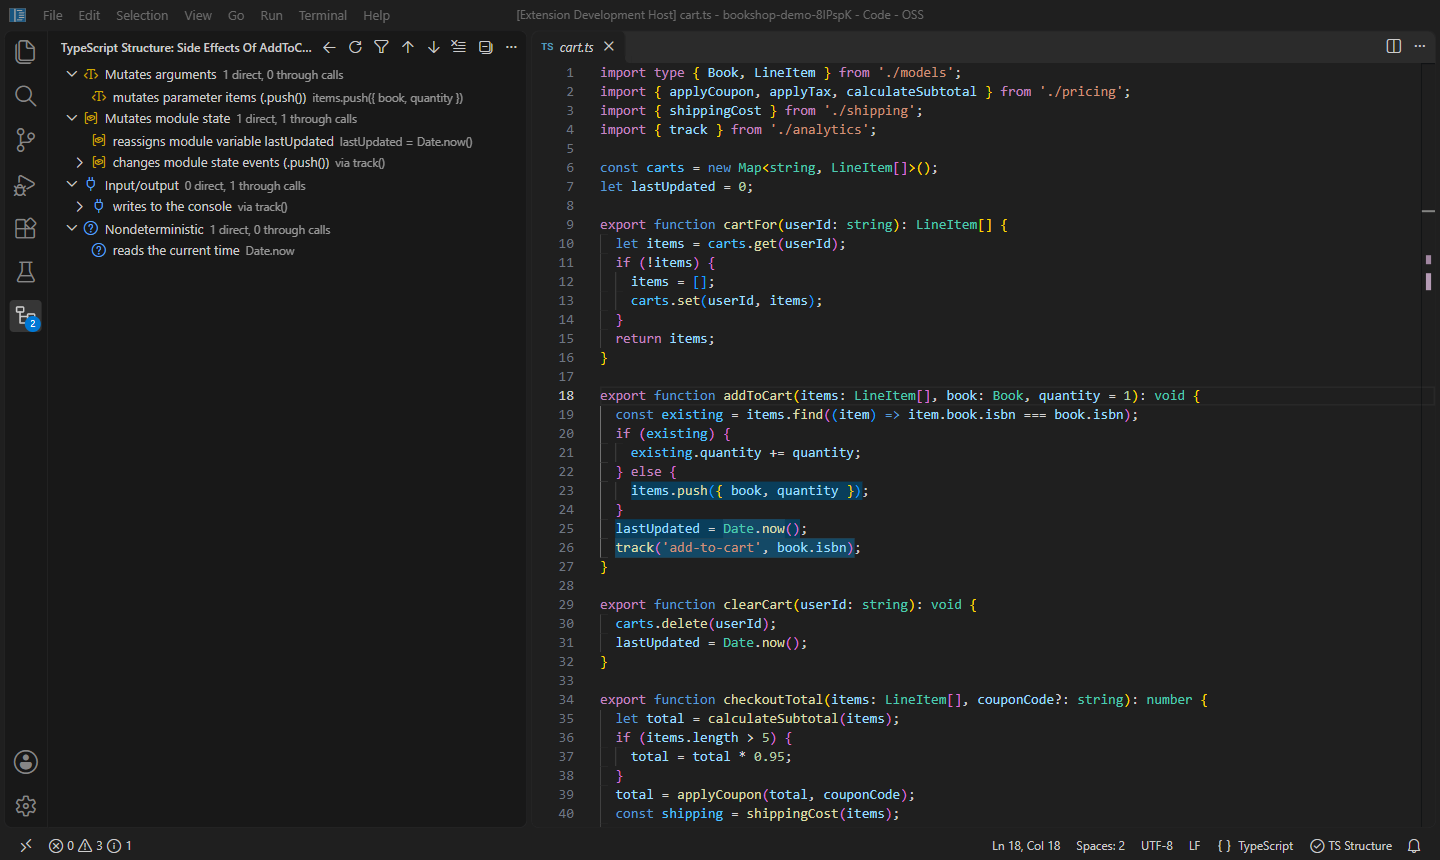
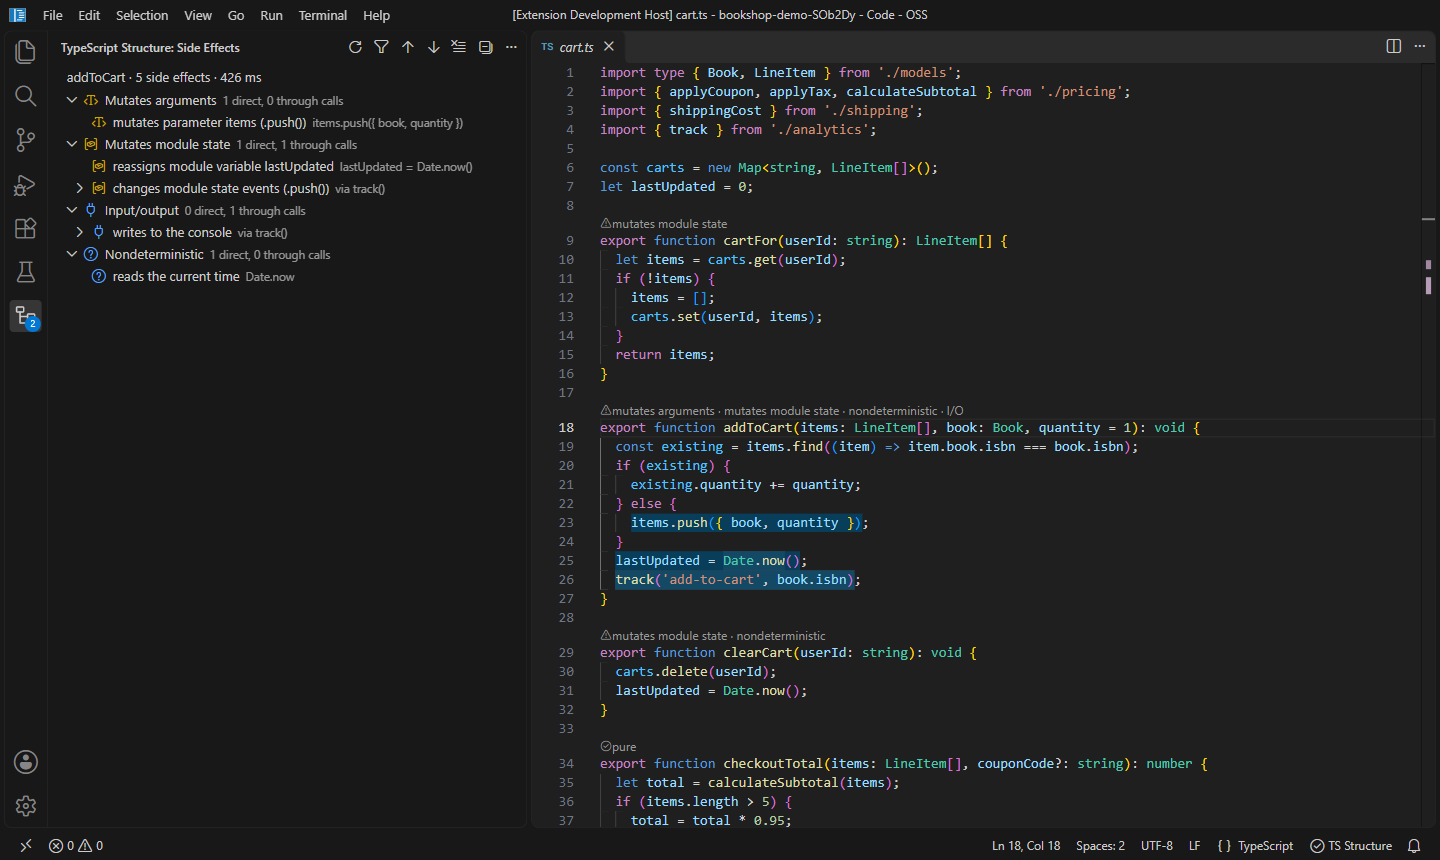
Side Effects: cache CodeLenses per document version
VS Code requests CodeLenses again on scroll, focus and many other events, and each request reloaded the project and re-analyzed every function in the file. Lenses are now kept per document version and dropped on save, close or a settings change. The tooltip also says '1 side effect' instead of 'side effect(s)'.

diff --git a/src/ui/sideEffectLens.ts b/src/ui/sideEffectLens.ts
@@ -38,13 +38,23 @@ function lensTargets(sourceFile: ts.SourceFile): { fn: ts.Node & { body?: ts.Nod
 export class SideEffectLens implements vscode.CodeLensProvider {
   private readonly changed = new vscode.EventEmitter<void>();
   readonly onDidChangeCodeLenses = this.changed.event;
+  /** Lenses of the last version of each document: VS Code asks again on scrolling and focus changes. */
+  private readonly cache = new Map<string, { version: number; lenses: vscode.CodeLens[] }>();
 
   constructor(private readonly projects: ProjectService) {}
 
   register(context: vscode.ExtensionContext): void {
     context.subscriptions.push(
       vscode.languages.registerCodeLensProvider(languageSelector, this),
-      vscode.workspace.onDidChangeConfiguration((e) => e.affectsConfiguration('tsStructure.codeLens.sideEffects') && this.changed.fire()),
+      vscode.workspace.onDidChangeConfiguration((e) => {
+        if (e.affectsConfiguration('tsStructure.codeLens')) {
+          this.cache.clear();
+          this.changed.fire();
+        }
+      }),
+      // An edit elsewhere can change what a function's callees do.
+      vscode.workspace.onDidSaveTextDocument(() => this.cache.clear()),
+      vscode.workspace.onDidCloseTextDocument((d) => this.cache.delete(d.uri.toString())),
     );
   }
 
@@ -52,6 +62,16 @@ export class SideEffectLens implements vscode.CodeLensProvider {
     if (!vscode.workspace.getConfiguration('tsStructure').get('codeLens.sideEffects', false) || document.uri.scheme !== 'file') {
       return [];
     }
+    const cached = this.cache.get(document.uri.toString());
+    if (cached?.version === document.version) {
+      return cached.lenses;
+    }
+    const lenses = this.compute(document);
+    this.cache.set(document.uri.toString(), { version: document.version, lenses });
+    return lenses;
+  }
+
+  private compute(document: vscode.TextDocument): vscode.CodeLens[] {
     try {
       const folder = vscode.workspace.getWorkspaceFolder(document.uri)?.uri.fsPath;
       const project = this.projects.load(document.uri.fsPath, folder);
@@ -70,7 +90,7 @@ export class SideEffectLens implements vscode.CodeLensProvider {
           const range = new vscode.Range(document.positionAt(anchor.getStart(sourceFile)), document.positionAt(anchor.end));
           return new vscode.CodeLens(range, {
             title,
-            tooltip: kinds.length ? `${effects.length} side effect(s). Click for the full analysis.` : 'No side effects detected.',
+            tooltip: kinds.length ? `${effects.length} side effect${effects.length === 1 ? '' : 's'}. Click for the full analysis.` : 'No side effects detected.',
             command: 'tsStructure.explainFinding',
             arguments: [document.uri, anchor.getStart(sourceFile), 'tsStructure.sideEffects'],
           });

diff --git a/src/test/screenshots/scenes.ts b/src/test/screenshots/scenes.ts
@@ -80,6 +80,7 @@ export const scenes: Scene[] = [
     async cleanup() {
       await settings().update('codeLens.sideEffects', undefined, vscode.ConfigurationTarget.Global);
     },
+    settle: 3000,
   },
   // Navigation and search
   analysis('semantic-usages', 'src/pricing.ts', 'calculateSubtotal(items', 'tsStructure.semanticUsages'),
